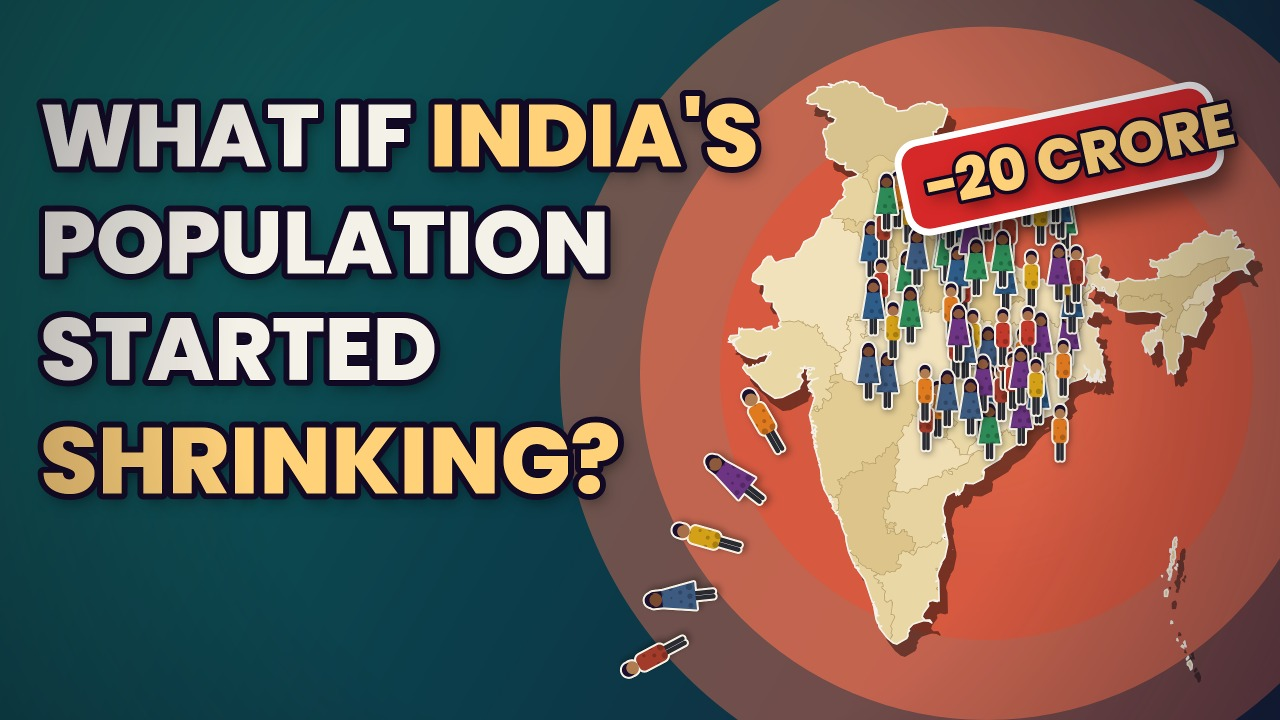
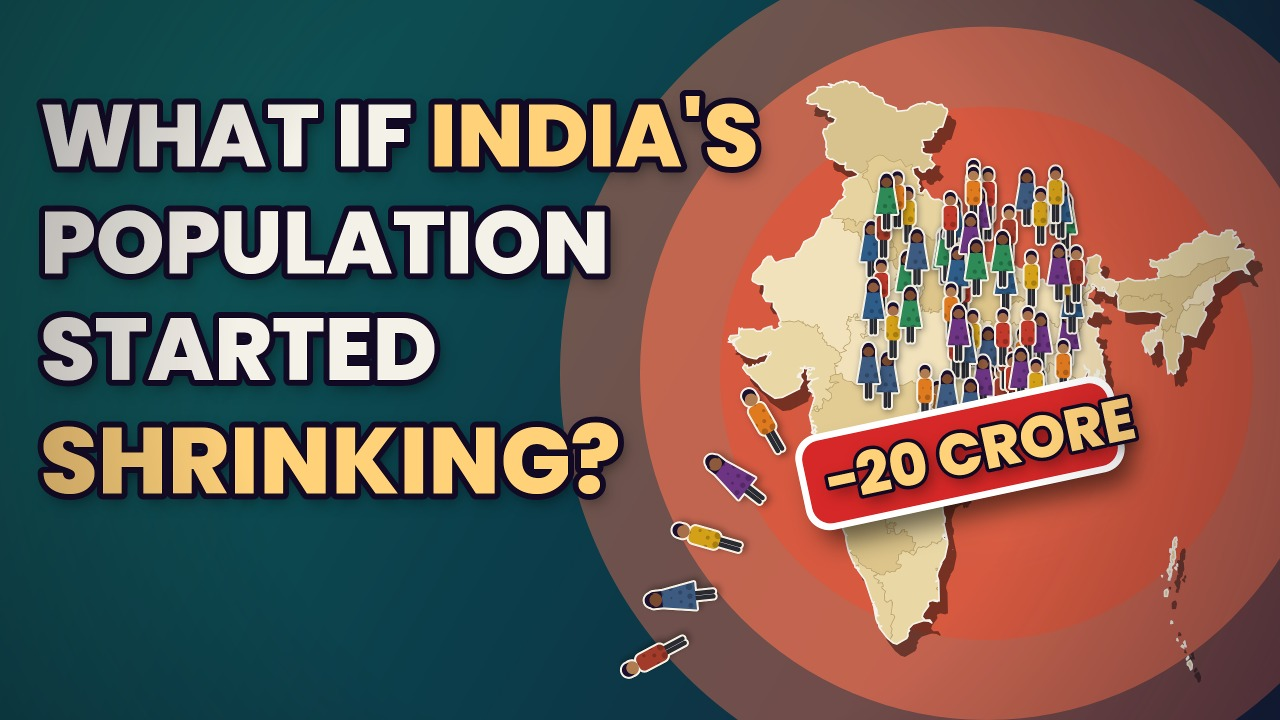
india-population-shrinking: thumbnail final (sticker over India, lower, 10% smaller)
Claude-Session: https://claude.ai/code/session_01WCp4uQEYis8QAmCexfaYWR

Changed region(s): [[0.6875, 0.0917, 0.9688, 0.3667], [0.625, 0.5194, 0.9062, 0.7639]]

diff --git a/runs/india-population-shrinking/video/thumbs.py b/runs/india-population-shrinking/video/thumbs.py
@@ -52,7 +52,7 @@ def thumb(c):
         c.save(); c.rotate(-30 - i * 22, x, y - 40)
         cutout(c, lambda kk, x=x, y=y, i=i: figure(kk, x, y, 0.28, i=i + 3, female=i % 2 == 1), border=3, shadow=(3, 5))
         c.restore()
-    sx, sy, sw, shh = 1355, 175, 468, 126
+    sx, sy, sw, shh = cx - 274, cy + 57, 468, 126
     c.save(); c.rotate(-12, sx + sw / 2, sy + shh / 2)
     sh = paint("#000000", 0.55); sh.setMaskFilter(skia.MaskFilter.MakeBlur(skia.kNormal_BlurStyle, 18))
     c.drawRRect(skia.RRect.MakeRectXY(skia.Rect(sx + 8, sy + 22, sx + sw + 18, sy + shh + 32), 36, 36), sh)
